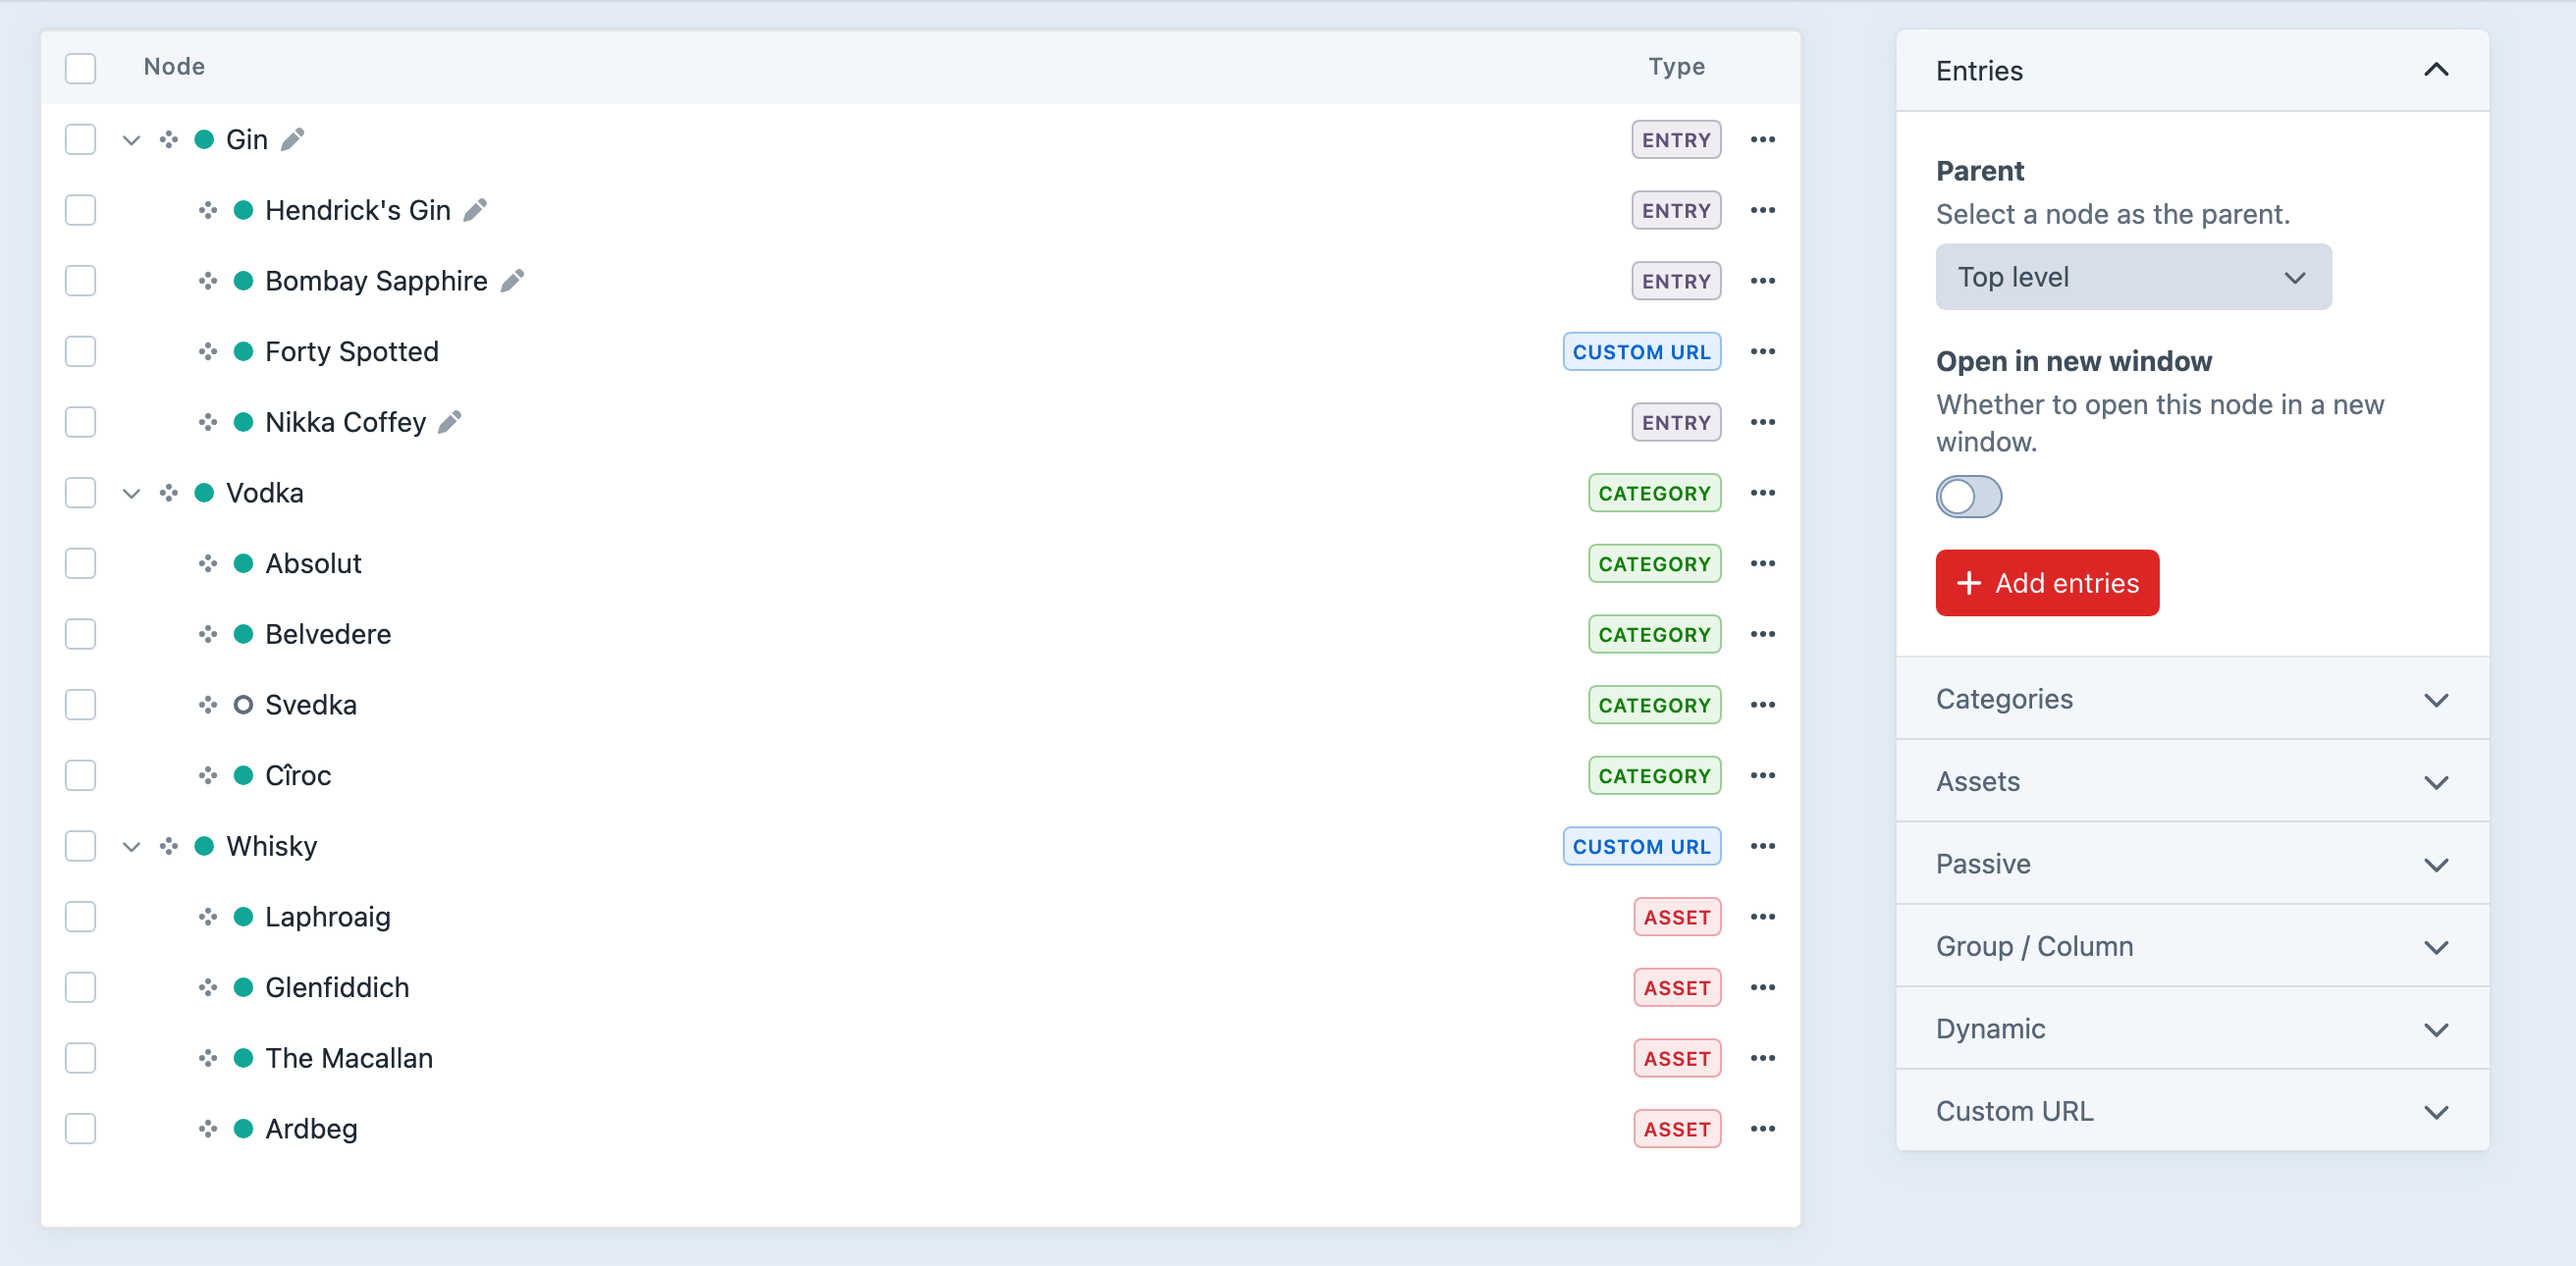
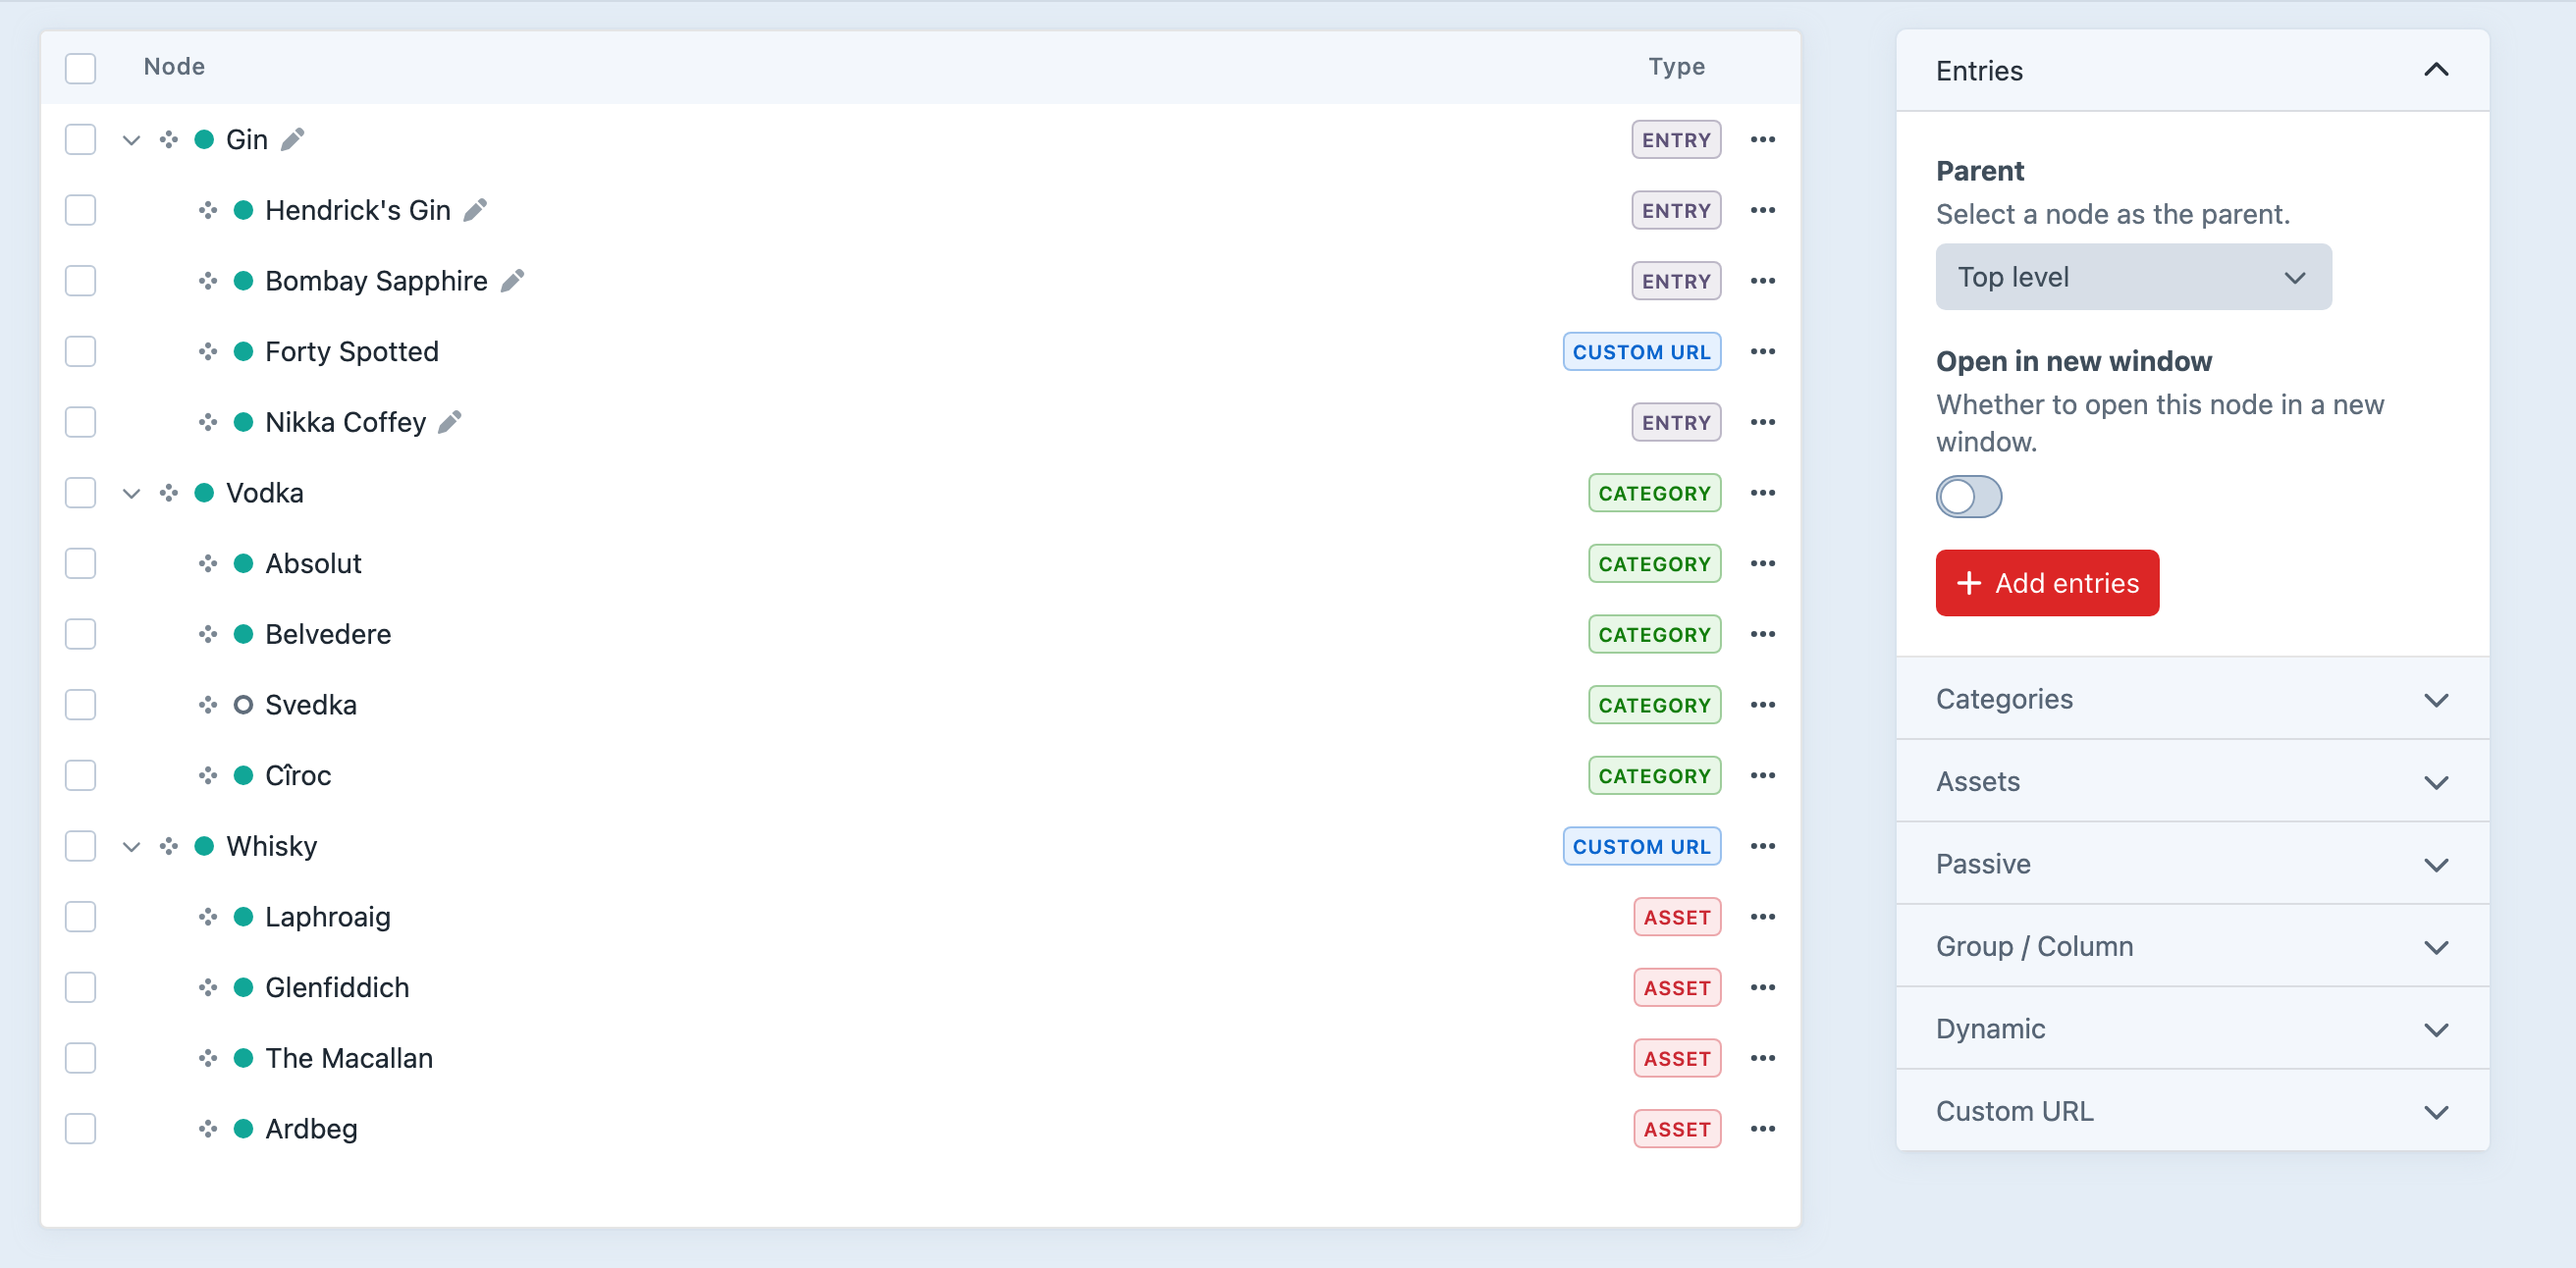
docs

diff --git a/marketing/features.md b/marketing/features.md
@@ -16,7 +16,7 @@ Manage navigation menus for your Craft site. Link to existing elements such as e
 
 Create as many navigations as the site needs and arrange their nodes independently of Craft’s section structure. Authors can build headers, footers, utility menus and deeply nested structures, with custom fields when a link needs more than a label and URL.
 
-![A populated Navigation menu arranged into a nested hierarchy in Craft.](../screenshots/output/feature-tour/navigation-nodes.png)
+![A populated Navigation menu arranged into a nested hierarchy in Craft.](../screenshots/output/docs/menus/overview-builder.png)
 <!-- feature-section-end -->
 
 <!-- feature-grid -->
